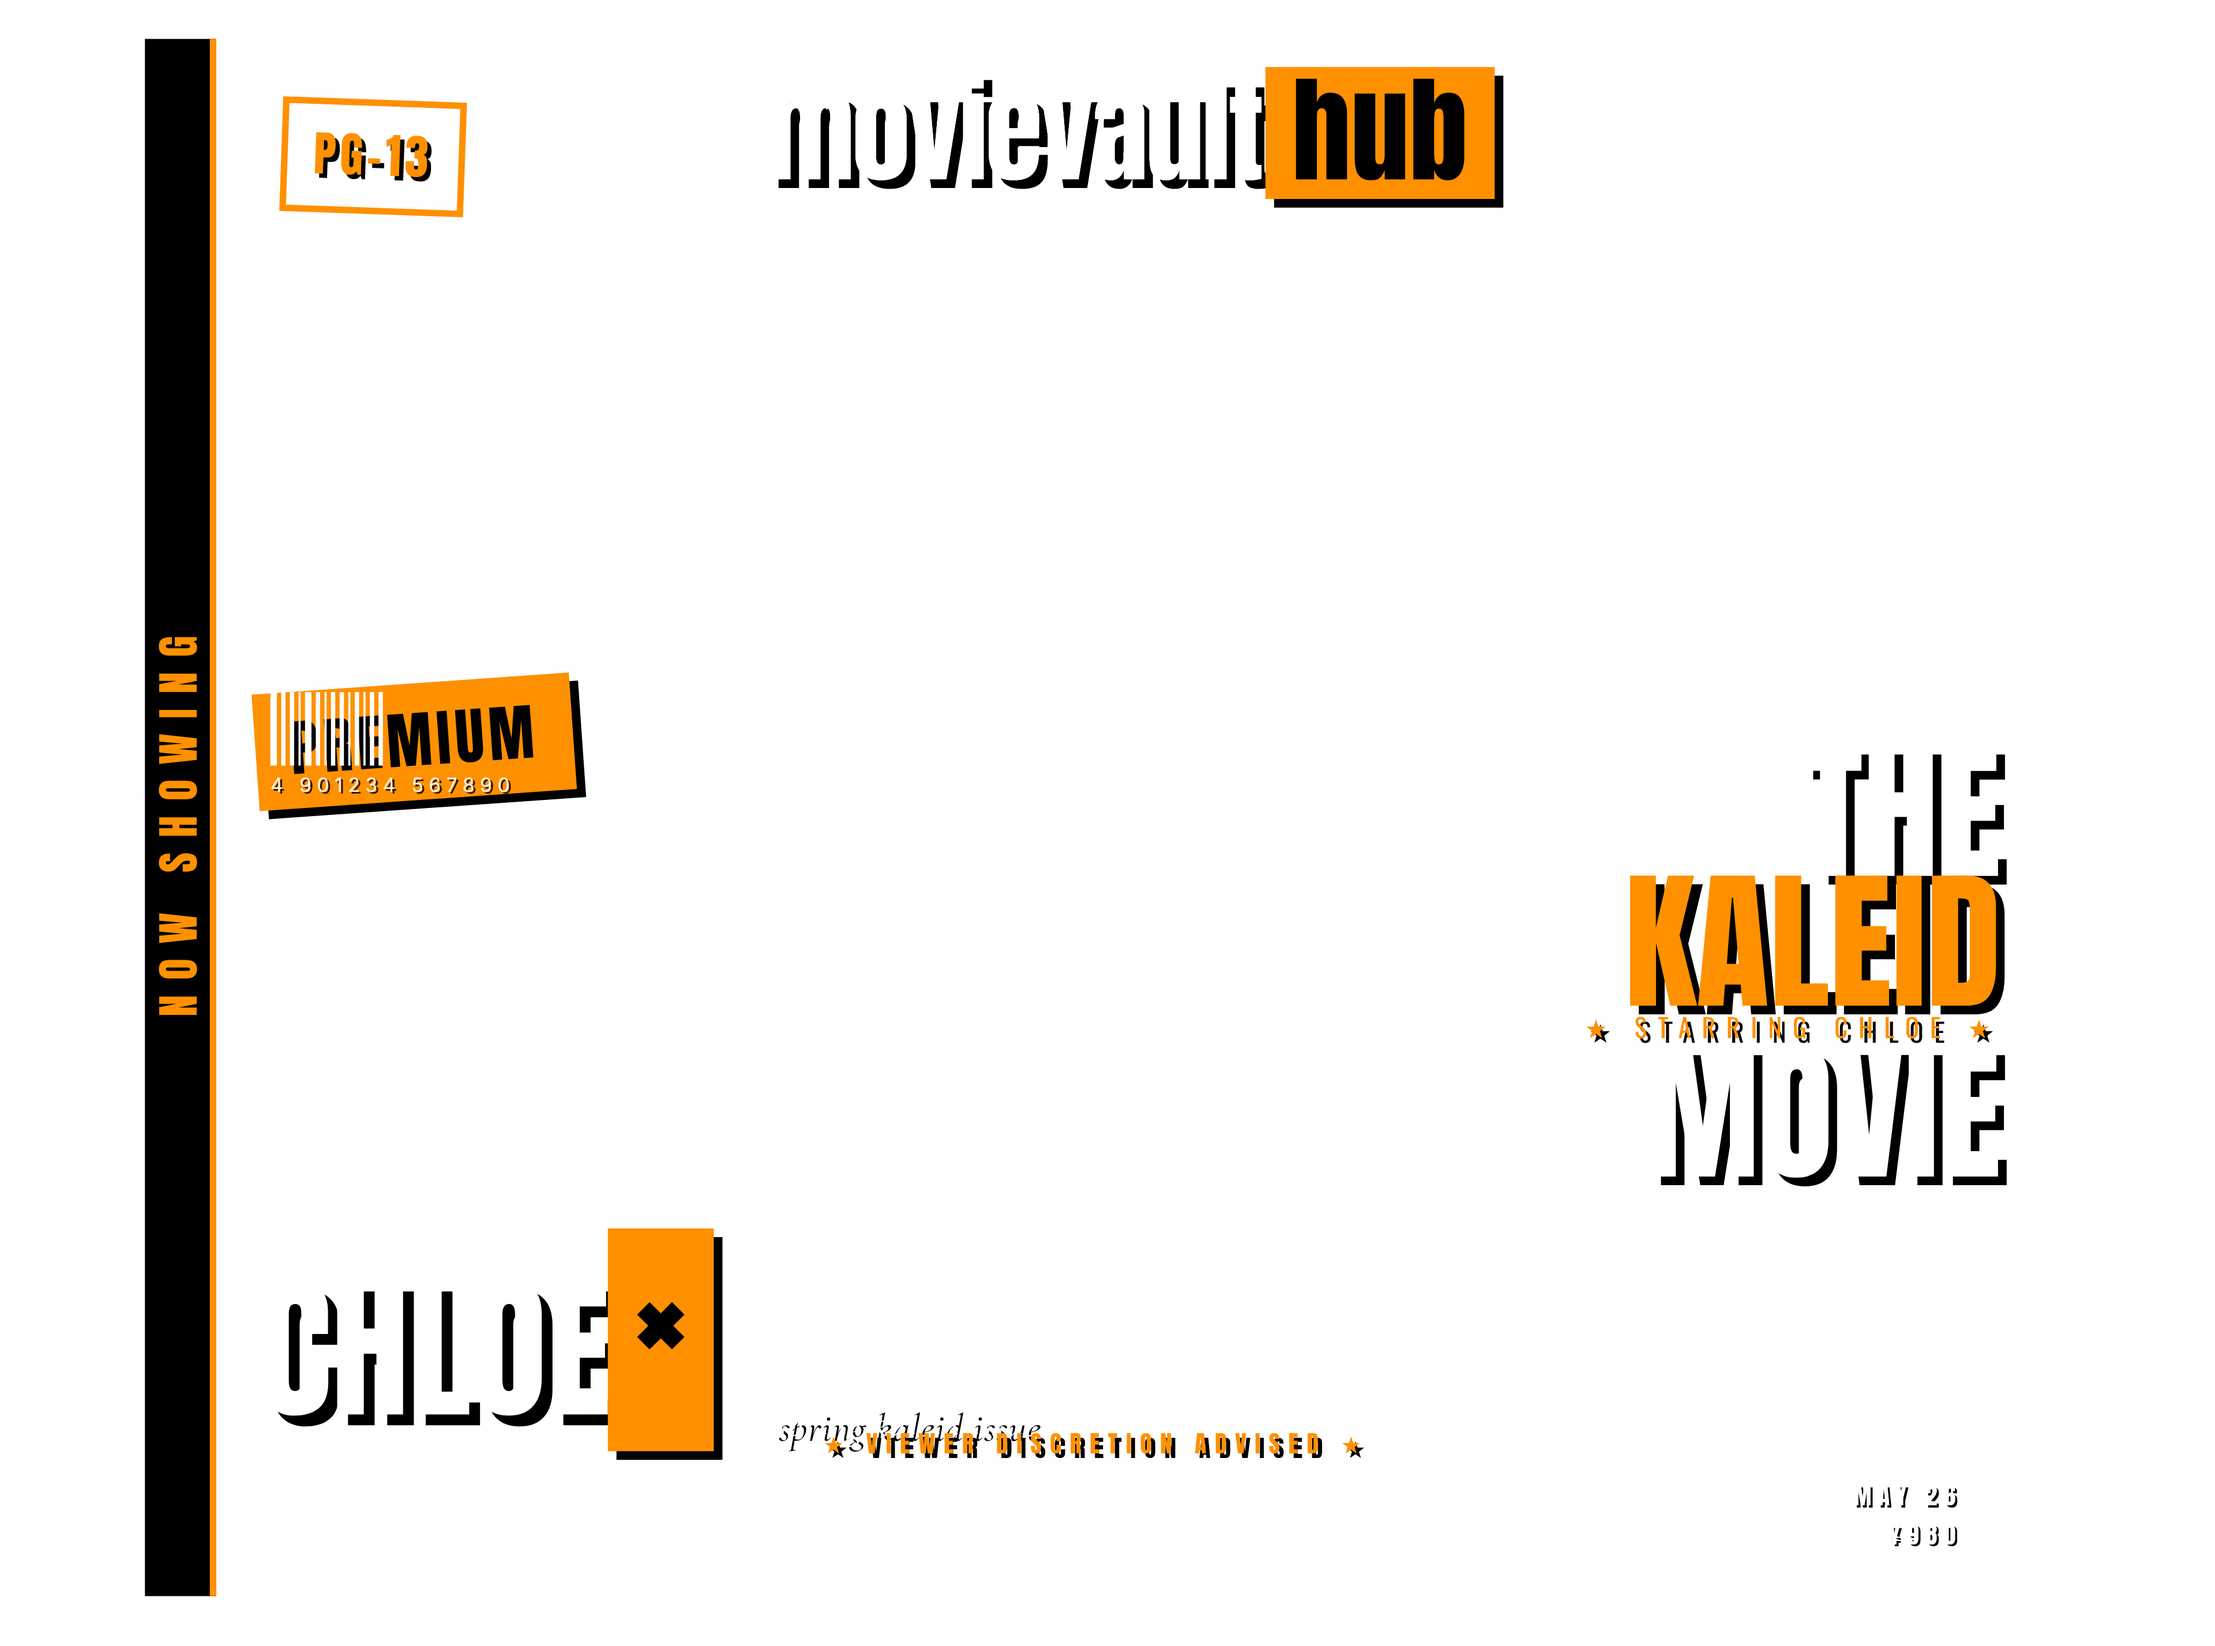
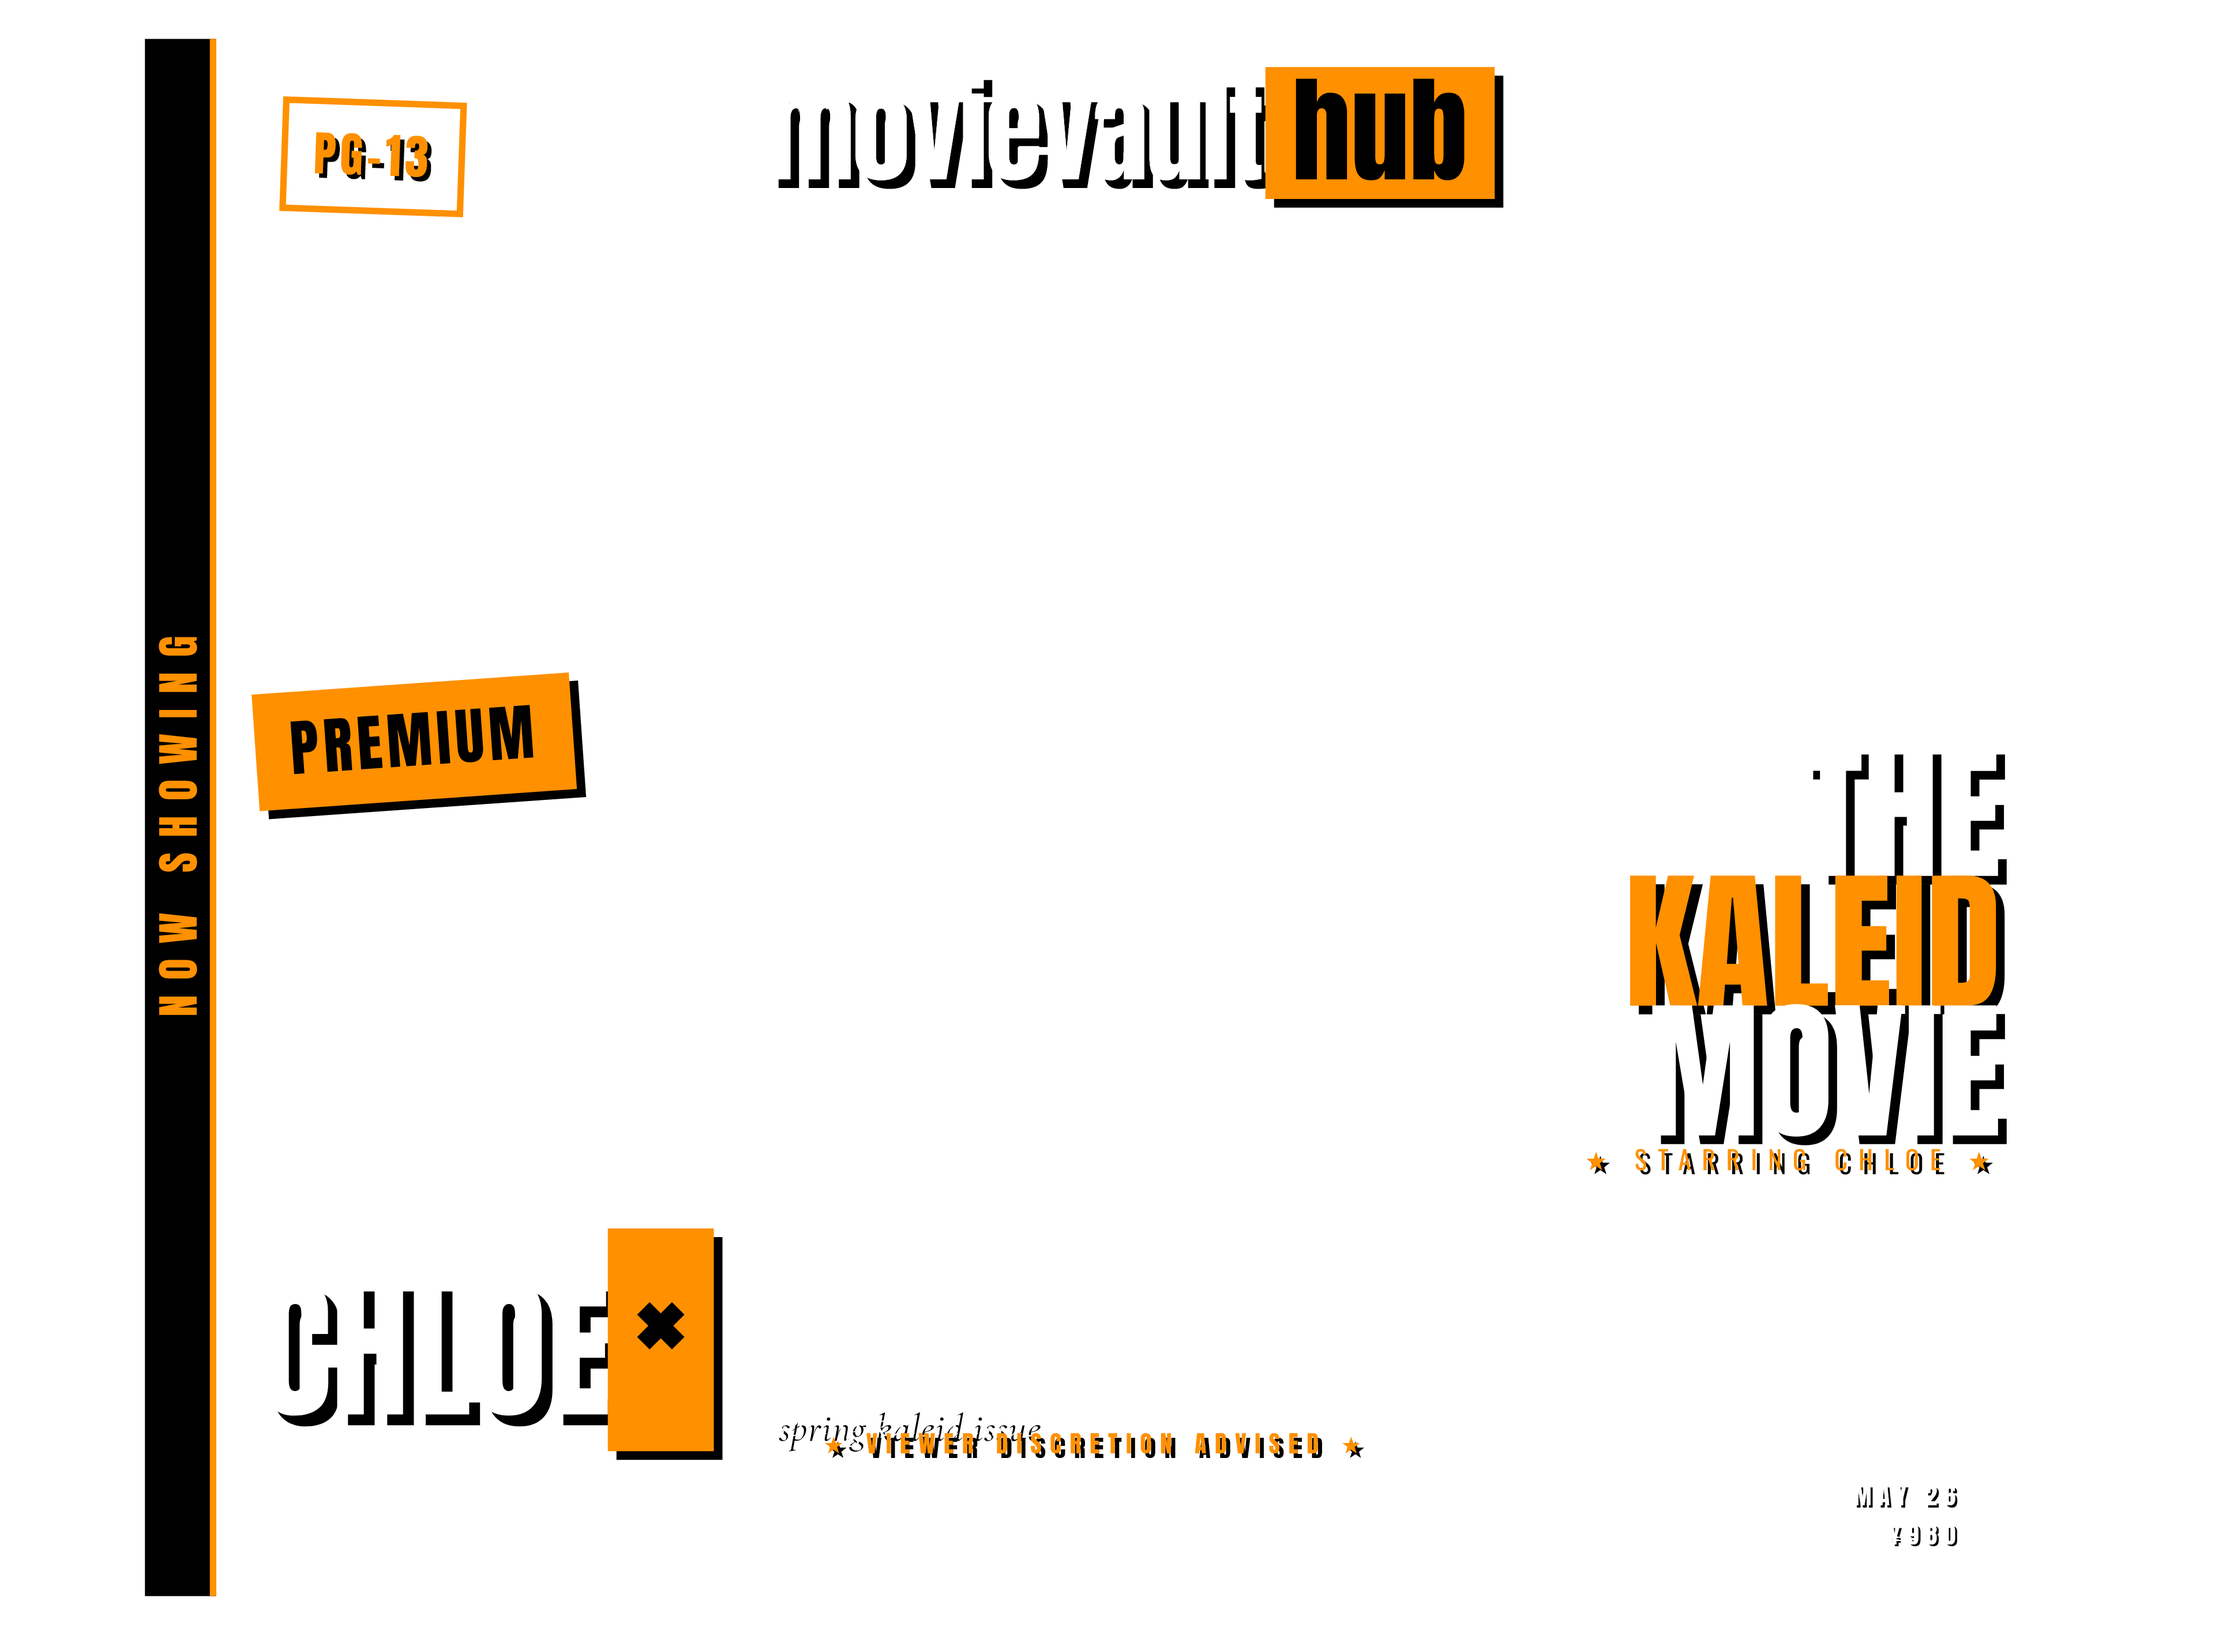
Add new downloader scripts and update permissions
- Introduced `ran_downloader.py` for downloading posts from ranagu.com, including password-protected content.
- Added `show_dates.py` to fetch and display dates from a specified table.
- Created `batch_update.json` for batch processing records.
- Updated `settings.local.json` to include new permissions for Bash and WebFetch commands.
- Modified `.gitignore` to exclude additional directories.
- Added `tmp_records.json` for temporary record storage.
- Implemented `migrate_date_field.py` for parsing and migrating date fields.

Changed region(s): [[0.7188, 0.5925, 0.9062, 0.7172], [0.125, 0.4054, 0.2188, 0.4989]]

diff --git a/fashion_magazine_cover/chloe/hd_assets/poster_overlay.html b/fashion_magazine_cover/chloe/hd_assets/poster_overlay.html
@@ -276,22 +276,7 @@
       <span class="ph-right" data-role="masthead-right">vault</span><span class="hub" data-role="hub-label">hub</span>
     </div>
 
-    <div class="rating-badge" data-role="rating">PG-13</div>
-    <div class="vol-pill" data-role="premium">PREMIUM</div>
-
-    <div class="poster-block">
-      <div class="big" data-role="title-top">THE</div>
-      <div class="big mid" data-role="title-middle">KALEID</div>
-      <div class="small" data-role="starring">★ STARRING CHLOE ★</div>
-      <div class="big" data-role="title-bottom">MOVIE</div>
-    </div>
-
-    <div class="star-name" data-role="name">CHLOE</div>
-    <div class="star-x" data-role="name-mark">×</div>
-
-    <div class="sig-tag" data-role="issue">spring kaleid issue</div>
-    <div class="discretion" data-role="discretion">★ VIEWER DISCRETION ADVISED ★</div>
-
+    <!-- barcode first so PREMIUM renders on top -->
     <div class="barcode">
       <span style="width:3px"></span><span style="width:1.5px"></span><span style="width:2px"></span>
       <span style="width:1px"></span><span style="width:3px"></span><span style="width:2px"></span>
@@ -300,6 +285,23 @@
       <span style="width:2.5px"></span><span style="width:1.5px"></span>
     </div>
     <div class="bc-num" data-role="barcode">4 901234 567890</div>
+
+    <div class="rating-badge" data-role="rating">PG-13</div>
+    <div class="vol-pill" data-role="premium">PREMIUM</div>
+
+    <div class="poster-block">
+      <div class="big" data-role="title-top">THE</div>
+      <div class="big mid" data-role="title-middle">KALEID</div>
+      <div class="big" data-role="title-bottom">MOVIE</div>
+      <div class="small" data-role="starring">★ STARRING CHLOE ★</div>
+    </div>
+
+    <div class="star-name" data-role="name">CHLOE</div>
+    <div class="star-x" data-role="name-mark">×</div>
+
+    <div class="sig-tag" data-role="issue">spring kaleid issue</div>
+    <div class="discretion" data-role="discretion">★ VIEWER DISCRETION ADVISED ★</div>
+
     <div class="iss-stack"><span data-role="date">MAY 26</span><br><span data-role="price">¥980</span></div>
   </div>
 
